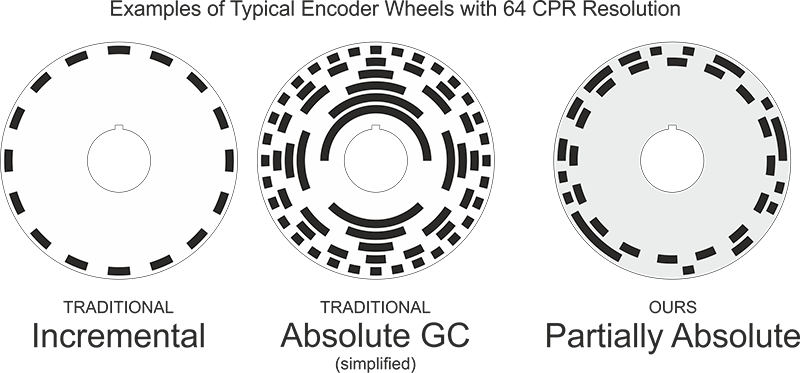
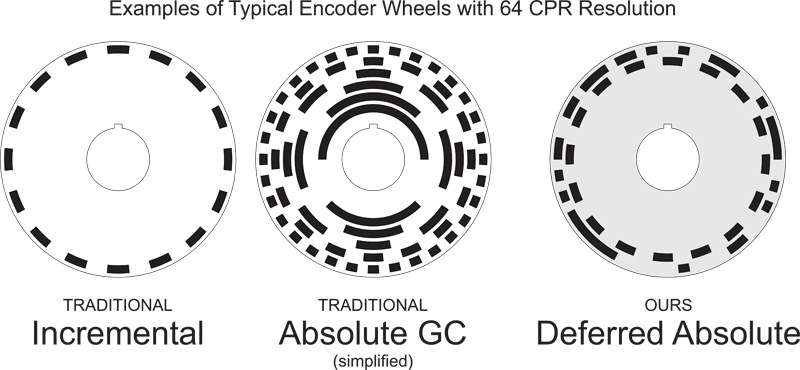
documentation update

diff --git a/README.md b/README.md
@@ -8,13 +8,13 @@ Note that this is just a quick synopsis of the concept. The concept is not fully
 
 ![First Produced Disc](./media/first_encoder.jpg?raw=true "First Produced Disc")
 
-LFSRs are interesting, and one of their properties is that that the data shifted out of one will never show repetition across *N* bits (where *N* is the size of the shift register and referenced as such in the remainder of this document) until, of course, the LFSR cycle repeats after *2<sup>N-1</sup> steps.
+LFSRs are interesting, and one of their properties is that that the data shifted out of one will never show repetition across *N* bits (where *N* is the size of the shift register and referenced as such in the remainder of this document) until, of course, the LFSR cycle repeats after *2<sup>N</sup>-1 steps.
 
-This means that knowing any N bits means you can figure out exactly where in the sequence these *N* bits fit, much like a puzzle piece.
+This means that knowing any *N* bits means you can figure out exactly where in the sequence these *N* bits fit, much like a piece of a puzzle.
 
 ![6-Bit LFSR Puzzle](./media/puzzle.png?raw=true "6-Bit LFSR Puzzle")
 
-To produce a sequence of *2<sup>N</sup>, which is preferable, you simply start with an initial value of 1 for the shift-register and prefix (or suffix) the sequence with a single 0.
+To produce a sequence of 2<sup>N</sup>, which is preferable to 2<sup>N</sup>-1, you simply start with an initial value of 1 for the shift-register and prefix (or suffix) the output sequence with a single 0.
 
 Now, encoders typically come in two traditional flavors: **incremental** and **absolute**.  
 
@@ -22,11 +22,18 @@ Now, encoders typically come in two traditional flavors: **incremental** and **a
 
 **Absolute** encoders typically use gray-coding (GC) and one signal per bit of resolution, making them more mecahnically complex to construct.  
 
-We propose a third variant that is not immediately absolute but becomes absolute after a partial rotation of *360°×N/2<sup>N</sup>* degrees, termed the *indexing angle*. This variant requires only one additional signal in addition to the traditional incremental encoder and matches the commonly available and standard incremental-with-index-pulse encoder in construction. The extra track and signal (termed *Q*) is generated from a suitable LFSR stream wrapped around the disc and shifted 45° relative the A/B signals (either when generating the disc, or by sensor positioning).
+We propose a third variant, **Deferred Absolute**, that is not immediately absolute but becomes absolute after a partial rotation of *360°×N/2<sup>N</sup>* degrees, the *indexing angle*, hence the prefix *deferred*.
+This variant requires only one additional signal in addition to the traditional incremental encoder and matches the commonly available and standard incremental-with-index-pulse encoder in construction.
+The extra track and signal, termed *Q*, is generated from a suitable LFSR stream wrapped around the disc and shifted 45° relative the *A*/*B* signals (either when generating the disc, or by sensor positioning).
+For example, a 256CPR/8-bit encoder would require only 3 signals (instead of 8) and have an *indexing angle* of 11.25°, which corresponds to only 3.125% of one full revolution.  
+   
 
 ![6-Bit/64-CPR Disc Variants](./media/variants.png?raw=true "6-Bit/64-CPR Disc Variants")
 
-When a quadrature flank *A* or *B* is detected, one bit is read off *Q* and stored in an *N*-bit register at a position depending on the decoded quadrature signals. Once this register is filled, a lookup table (or reverse LFSR calculation) is used to determine the position at which these bits were read. Once this process is completed, absolute positioning is aquired and normal quadrature counting can be applied to maintain absolute positioning. Further *Q* extraction can be performed to verify or correct the positioning over time, providing error correction when desired.
+When a quadrature flank *A* or *B* is detected, one bit is read off *Q* and stored in an *N*-bit register at a position depending on the decoded quadrature signals.
+Once this register is filled, a lookup table (or reverse LFSR calculation) is used to determine the position at which these bits were read.
+Once this process is completed, absolute positioning is aquired and normal quadrature counting can be applied to maintain absolute positioning.
+Further *Q* extraction can be performed to verify or correct the positioning over time, providing error correction when desired.
 
 An example (in Python) for generating discs is provided by [generator.py](./generator.py).  
 Set your parameters (polynomial, which also controls register size, and desired radii) in the source code and run the program which will generate and preview the disc, and let you export an **SVG**-file and the corresponding **LUT** as an array in a C-file.  
@@ -36,4 +43,5 @@ The example is designed for Teensy3.2, but can of course be adapted for other su
 
 Sample discs and data is provided in the [examples](./examples/) directory.  
 
-Further, this concept can be expanded upon to do linear deferred absolute positioning, or to add additional *Q* tracks with the advantage of decreasing the *indexing angle* but also with the disadvantage of requiring additional sensors. This opens up an opportunity to "tune" the performance depending on requirements.  
+Further, this concept can be expanded upon to do linear deferred absolute positioning, or to add additional *Q* tracks with the advantage of decreasing the *indexing angle* but also with the disadvantage of requiring additional sensors.
+This opens up an opportunity to "tune" the performance depending on requirements.  
